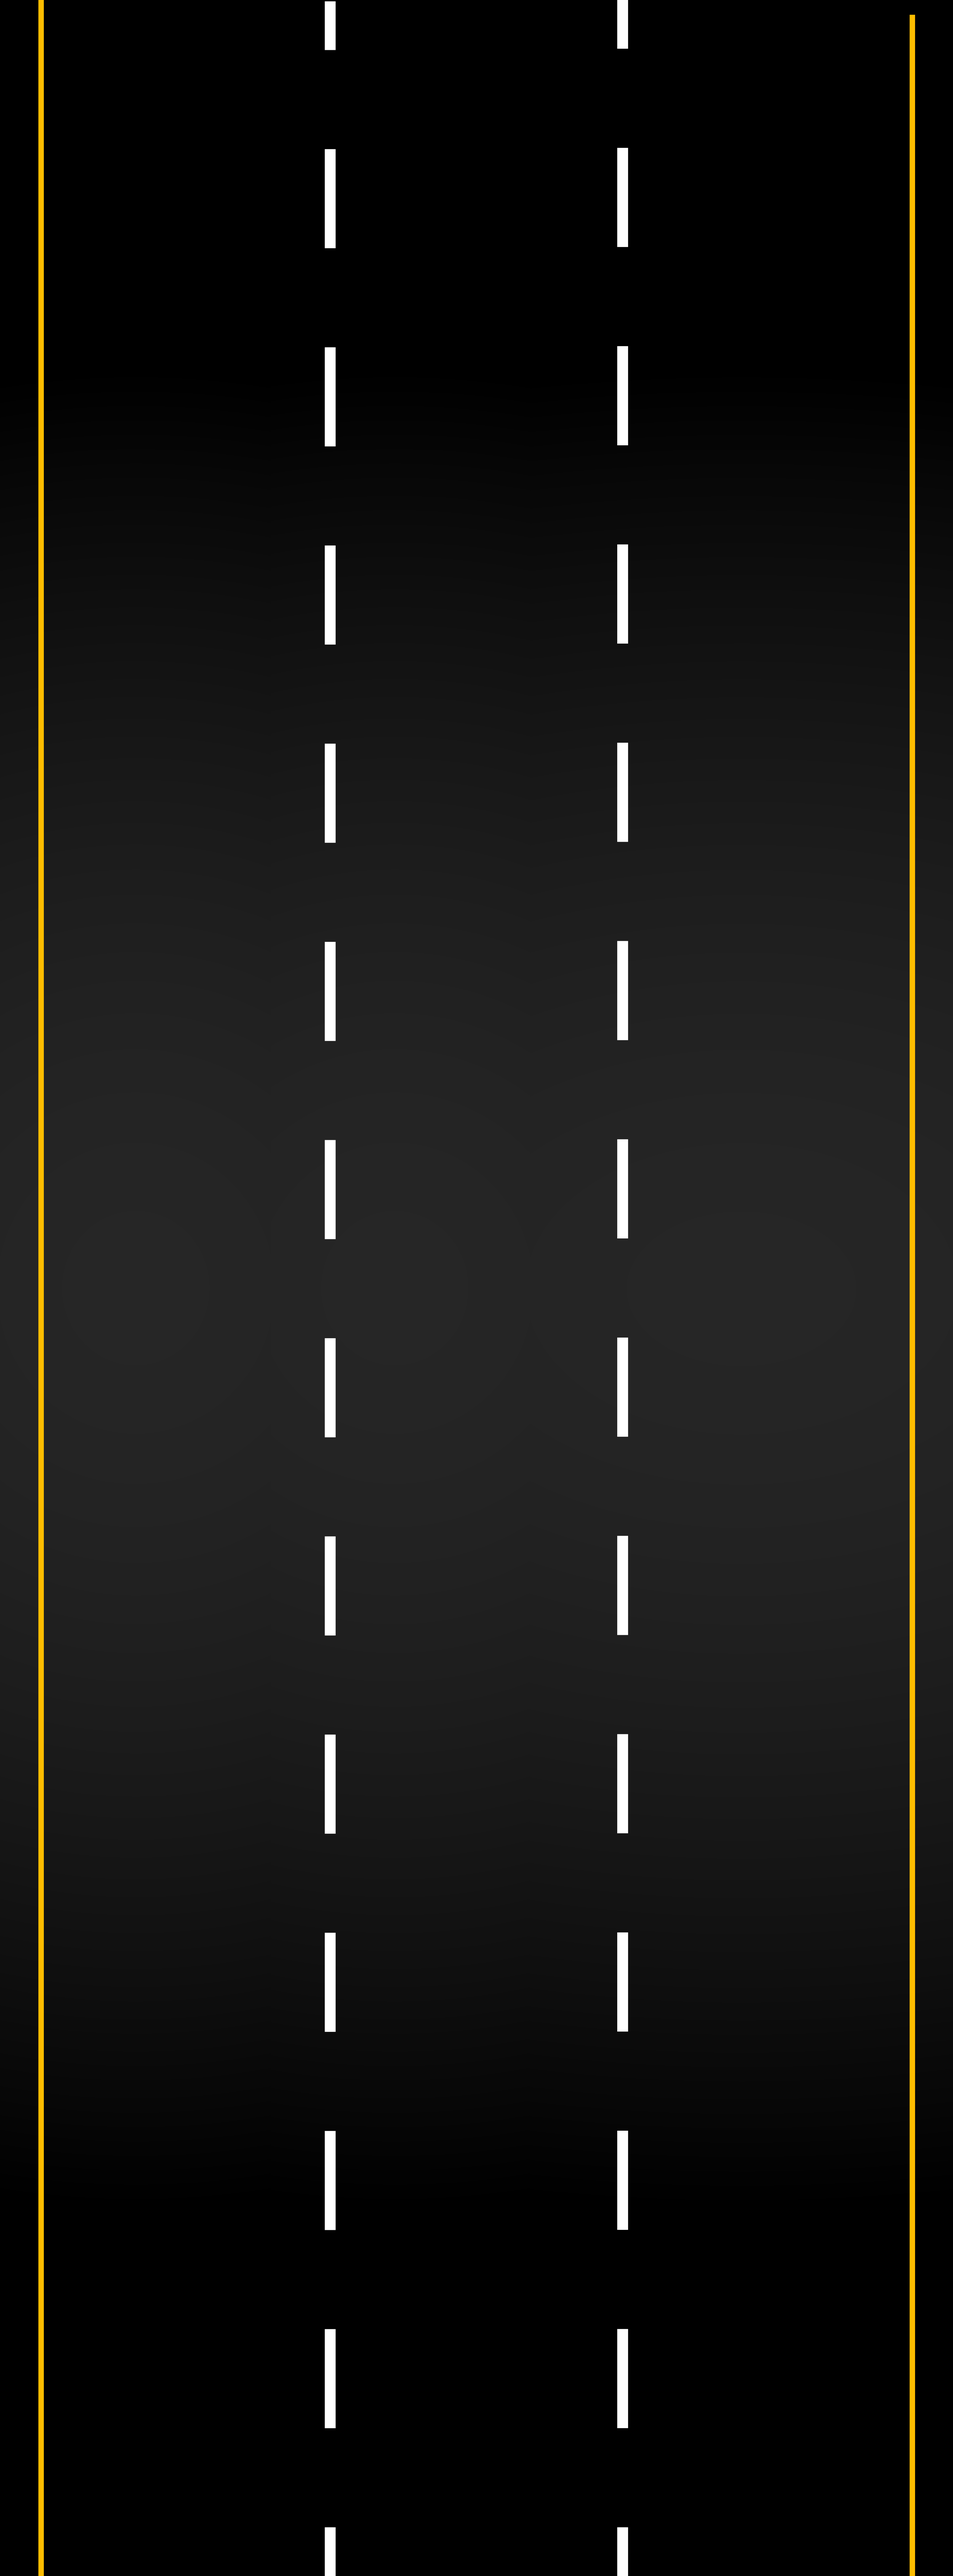
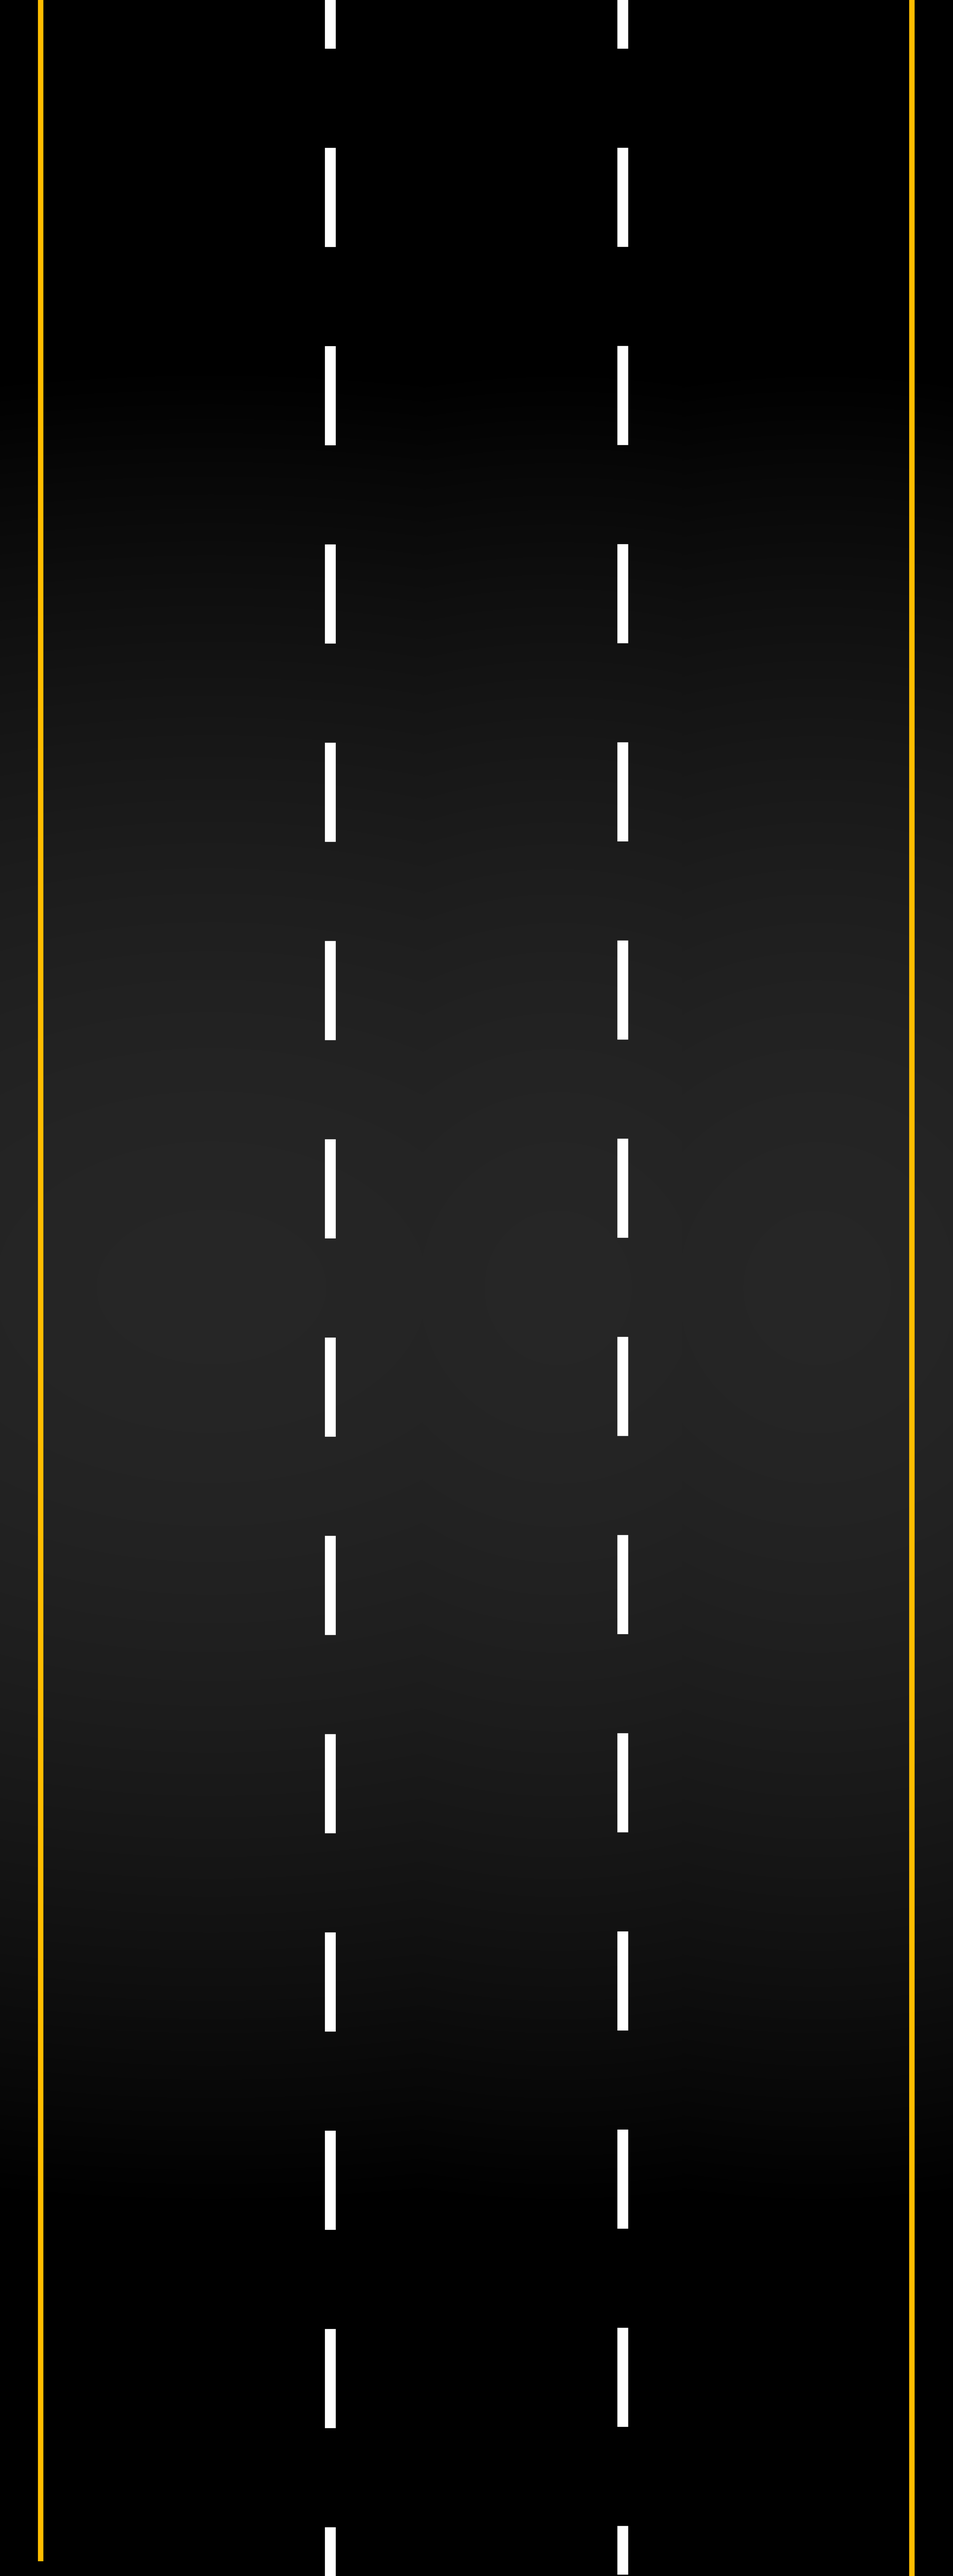
welcome screen added

diff --git a/CarGame/script.js b/CarGame/script.js
@@ -11,12 +11,13 @@
         var that = this;
 
 
+
         this.drawCar = function () {
             var car = document.createElement('div');
             car.style.width = this.width + 'px';
             car.style.height = this.height + 'px';
             car.style.bottom = '0px';
-            car.style.left = '410px';
+            car.style.left = '270px';
             car.style.transition = 'all 0.2s ease';
 
             car.classList.add('car');
@@ -37,27 +38,27 @@
 
                 setTimeout(function () {
 
-                    if (key === 37 && position === 410 && that.possibleDirection === 2) {
-                        that.element.style.left = '110px';
+                    if (key === 37 && position === 270 && that.possibleDirection === 2) {
+                        that.element.style.left = '70px';
                         position = parseInt(that.element.style.left.replace("px", "").trim());
                         that.possibleDirection = 1;
 
                     }
-                    else if (key === 37 && position === 710 && that.possibleDirection === 1) {
-                        that.element.style.left = '410px';
+                    else if (key === 37 && position === 470 && that.possibleDirection === 1) {
+                        that.element.style.left = '270px';
                         position = parseInt(that.element.style.left.replace("px", "").trim());
                         that.possibleDirection = 2;
 
                     }
 
-                    else if (key === 39 && position === 410 && that.possibleDirection === 2) {
-                        that.element.style.left = '710px';
+                    else if (key === 39 && position === 270 && that.possibleDirection === 2) {
+                        that.element.style.left = '470px';
                         position = parseInt(that.element.style.left.replace("px", "").trim());
                         that.possibleDirection = 1;
 
                     }
-                    else if (key === 39 && position === 110 && that.possibleDirection === 1) {
-                        that.element.style.left = '410px';
+                    else if (key === 39 && position === 70 && that.possibleDirection === 1) {
+                        that.element.style.left = '270px';
                         position = parseInt(that.element.style.left.replace("px", "").trim());
                         that.possibleDirection = 2;
 
@@ -69,8 +70,6 @@
         }
 
     }
-
-
 
     function Obstacle(height, width, parentElement, position) {
         this.height = height;
@@ -132,12 +131,13 @@
         var obstacleCount = 0;
         var that = this;
         var lane = {
-            'first': 110,
-            'second': 410,
-            'third': 710
+            'first': 70,
+            'second': 270,
+            'third': 470
         }
         var play;
         var score = 0;
+        var highScore = 0;
         this.randomLane = function () {
             return Math.floor(Math.random() * 59 + 1);
         }
@@ -164,14 +164,80 @@
 
 
             for (var i = 0; i < obstacles.length; i++) {
-                if (parseInt(player.element.style.bottom.replace("px", "").trim()) < parseInt(obstacles[i].element.style.top.replace("px", "").trim()) - 600
-                    && ((obstacles[i].element.style.left === '410px' && player.element.style.left === '410px')
-                        || (obstacles[i].element.style.left === '110px' && player.element.style.left === '110px')
-                        || (obstacles[i].element.style.left === '710px' && player.element.style.left === '710px'))) {
+                if (parseInt(player.element.style.bottom.replace("px", "").trim()) < parseInt(obstacles[i].element.style.top.replace("px", "").trim()) - 300
+                    && ((obstacles[i].element.style.left === '270px' && player.element.style.left === '270px')
+                        || (obstacles[i].element.style.left === '70px' && player.element.style.left === '70px')
+                        || (obstacles[i].element.style.left === '470px' && player.element.style.left === '470px'))) {
                     clearInterval(play);
 
+                    setTimeout(this.gameOver(), 30);
                 }
             }
+        }
+
+        this.welcomeScreen = function () {
+            var container = document.getElementsByClassName('game-container')[0];
+
+
+            var welcome = document.createElement('div');
+            welcome.style.height = 600 + 'px';
+            welcome.style.backgroundColor = 'rgba(255,255,255,0.5)';
+            container.appendChild(welcome);
+
+
+            var welcomeToGame = document.createElement('div');
+            welcomeToGame.style.textAlign = 'center';
+            welcomeToGame.innerHTML = 'Welcome <br> To <br> Car Game';
+            welcomeToGame.style.color = 'rgba(200,50,50,0.8)';
+            welcomeToGame.style.padding = '90px 0px';
+            welcomeToGame.style.fontSize = '50px';
+            welcomeToGame.style.fontWeight = '800';
+            welcomeToGame.style.lineHeight = '50px';
+
+
+            var start = document.createElement('span');
+            start.style.display = 'block';
+            start.style.width = '200px';
+            start.style.textAlign = 'center';
+            start.style.marginLeft = '37%';
+            start.style.marginTop = '42px';
+            start.style.cursor = 'pointer';
+
+            start.style.fontSize = '25px';
+            start.style.fontWeight = '400';
+            start.style.lineHeight = '40px';
+            start.innerHTML = 'Play';
+            start.style.backgroundColor = 'rgba(255,100,40,0.9)';
+            start.style.color = 'rgba(50,100,100,0.6)'
+            start.style.border = '1px solid gray';
+            start.style.borderRadius = '50px';
+
+            welcome.appendChild(welcomeToGame);
+            welcome.appendChild(start);
+
+            start.addEventListener('click', function () {
+                container.removeChild(welcome);
+                container.innerHTML = `
+                    <div class="game-wrapper">
+                        <div class="road">
+                            
+                        </div>
+                        </div>
+                        <div class="score-board">
+                            <span>High Score:<span id="high-score">0</span></span>
+                            <span>Your Score:<span id="your-score">0</span></span>
+                        </div>
+                    `;
+
+       
+ var parentElement = document.getElementsByClassName('road')[0];
+                var playGame = new Game(200, 100, 190, 100, parentElement);
+                playGame.newGame();
+
+
+            });
+
+
         }
 
 
@@ -180,7 +246,9 @@
 
 
             play = setInterval(function () {
-                document.getElementById('high-score').innerHTML = localStorage.getItem('highscore');
+                document.getElementById("your-score").innerHTML = score;
+                highScore = localStorage.getItem('highscore');
+                document.getElementById('high-score').innerHTML = highScore;
                 if (localStorage.getItem('highscore') !== null) {
                     if (localStorage.getItem('highscore') < score) {
                         localStorage.setItem('highscore', score);
@@ -189,15 +257,14 @@
                     localStorage.setItem('highscore', score);
                 }
 
-                if (totalDistance === 1080 && obstacles.length <= 6) {
+                if (totalDistance === 880 && obstacles.length <= 6) {
                     that.generateObstacles();
-                    document.getElementById("your-score").innerHTML = score;
                     score += 1;
 
                     if (score % 10 === 0) {
-                        refreshRate +=5;
-                        if (refreshRate > 30) {
-                            refreshRate = 30;
+                        SPEED+= 5;
+                        if (SPEED>= 50) {
+                            SPEED = 50;
                         }
                     }
                     totalDistance = 0;
@@ -221,7 +288,7 @@
 
                 obstacles[i].updateObstacle();
                 this.collisionDetection(player);
-                if (parseInt(obstacles[i].element.style.top.replace('px', '').trim()) >= 920) {
+                if (parseInt(obstacles[i].element.style.top.replace('px', '').trim()) >= 550) {
 
                     obstacles[i].destroyObstacle();
                     obstacles.splice(i, 1);
@@ -235,11 +302,102 @@
 
 
         }
+        this.gameOver = function (player) {
+            var road = document.getElementsByClassName('game-wrapper')[0];
+            var scoreBoard = document.getElementsByClassName('score-board')[0];
+            var container = document.getElementsByClassName('game-container')[0];
+
+            container.removeChild(road);
+            container.removeChild(scoreBoard);
+
+            var game = document.createElement('div');
+            game.style.height = 600 + 'px';
+            game.style.backgroundColor = 'rgba(255,255,255,0.5)';
+            container.appendChild(game);
+
+
+            var gameover = document.createElement('div');
+            gameover.style.textAlign = 'center';
+            gameover.innerHTML = 'GAME OVER';
+            gameover.style.color = 'rgba(0,0,0,0.5)';
+            gameover.style.padding = '90px 0px';
+            gameover.style.fontSize = '50px';
+            gameover.style.fontWeight = '800';
+            gameover.style.lineHeight = '50px';
+
+            var scoreText = document.createElement('div');
+            scoreText.innerHTML = '<br>High Score =' + highScore;
+            scoreText.innerHTML += '<br>Score =' + score;
+            scoreText.style.color = 'rgba(0,0,0,0.9)';
+            scoreText.style.textAlign = 'center';
+            scoreText.style.fontSize = '25px';
+            scoreText.style.fontWeight = '400';
+            scoreText.style.lineHeight = '40px';
+
+            var reset = document.createElement('span');
+            reset.style.display = 'block';
+            reset.style.width = '200px';
+            reset.style.textAlign = 'center';
+            reset.style.marginLeft = '37%';
+            reset.style.marginTop = '42px';
+            reset.style.cursor = 'pointer';
+
+            reset.style.fontSize = '25px';
+            reset.style.fontWeight = '400';
+            reset.style.lineHeight = '40px';
+            reset.innerHTML = 'Play Again';
+            reset.style.backgroundColor = 'rgba(255,40,0,0.9)';
+            reset.style.border = '1px solid black';
+            reset.style.borderRadius = '50px';
+
+
+            game.appendChild(gameover);
+            game.appendChild(scoreText);
+            game.appendChild(reset);
+
+            reset.addEventListener('click', function () {
+                container.removeChild(game);
+
+                container.innerHTML = `
+    <div class="game-wrapper">
+        <div class="road">
+            
+        </div>
+        </div>
+        <div class="score-board">
+            <span>High Score:<span id="high-score">0</span></span>
+            <span>Your Score:<span id="your-score">0</span></span>
+        </div>
+    `;
+
+                SPEED=20;
+
+                var parentElement = document.getElementsByClassName('road')[0];
+                var playGame = new Game(200, 100, 190, 100, parentElement);
+                playGame.newGame();
+
+
+            });
+
+
+
+
+
+
+
+
+
+
+
+
+        }
 
     }
+
+
     var parentElement = document.getElementsByClassName('road')[0];
-    var game = new Game(200, 100, 200, 100, parentElement);
-    game.newGame()
+    var playGame = new Game(200, 100, 190, 100, parentElement);
+    playGame.welcomeScreen(playGame);
 
 
 })();

diff --git a/CarGame/style.css b/CarGame/style.css
@@ -9,7 +9,7 @@ body{
     background-repeat:no-repeat;
 }
 .game-container{
-    width:70em;
+    width:50em;
     margin: 0 auto;
     content: "";
     clear: both;
@@ -24,8 +24,9 @@ body{
 .road{
     background-image: url("images/lane.png");
     background-repeat: repeat-y;
+
     background-size: cover;
-    height:1030px;
+    height:700px;
     position: relative;
     
 
@@ -45,13 +46,6 @@ body{
     background-position: center;
 
 }
-
-
-
-
-
-
-
 
 
 .score-board {

diff --git a/CarGame/index.html b/CarGame/index.html
@@ -11,15 +11,7 @@
 <body>
 
     <div class="game-container">
-        <div class="game-wrapper">
-        <div class="road">
-            
-        </div>
-        </div>
-        <div class="score-board">
-            <span>High Score:<span id="high-score">0</span></span>
-            <span>Your Score:<span id="your-score">0</span></span>
-        </div>
+      
     </div>
     <script src="script.js"></script>
 </body>
